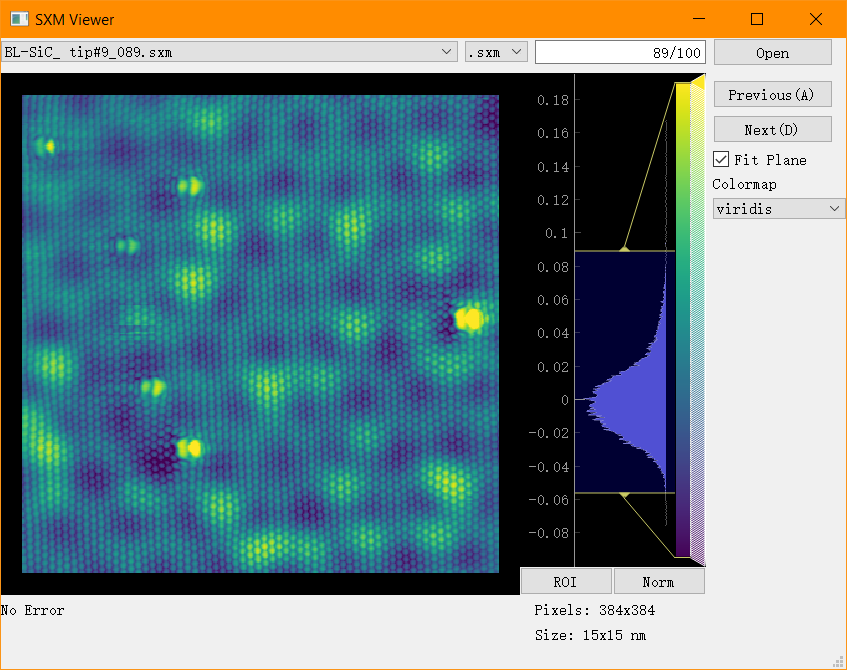
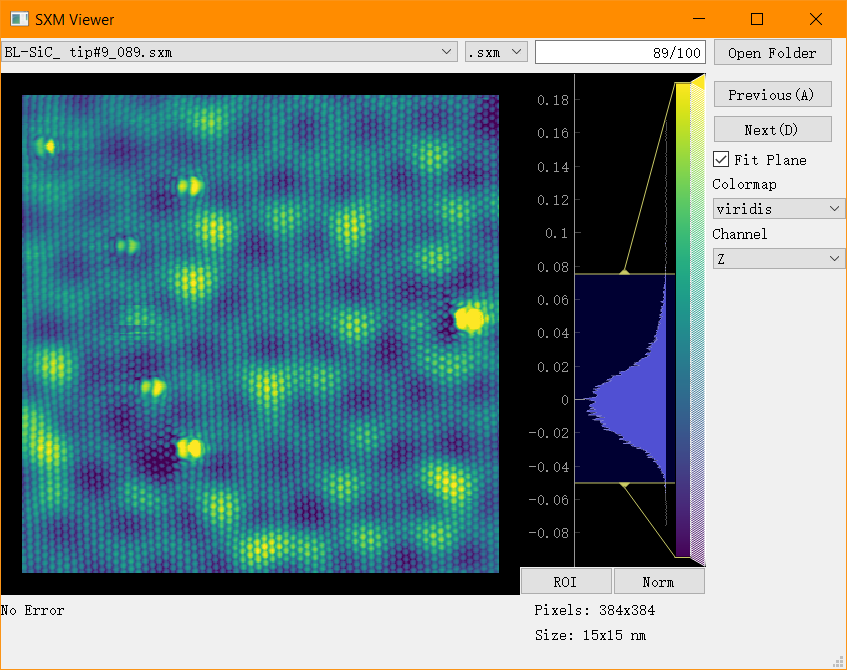
add a functionality to read all the availble channels.

diff --git a/ui.py b/ui.py
@@ -2,7 +2,7 @@
 
 # Form implementation generated from reading ui file 'ui.ui'
 #
-# Created by: PyQt5 UI code generator 5.15.4
+# Created by: PyQt5 UI code generator 5.15.7
 #
 # WARNING: Any manual changes made to this file will be lost when pyuic5 is
 # run again.  Do not edit this file unless you know what you are doing.
@@ -22,8 +22,9 @@ class Ui_MainWindow(object):
         self.gridLayout_2.setObjectName("gridLayout_2")
         self.gridLayout = QtWidgets.QGridLayout()
         self.gridLayout.setObjectName("gridLayout")
-        spacerItem = QtWidgets.QSpacerItem(40, 20, QtWidgets.QSizePolicy.Expanding, QtWidgets.QSizePolicy.Minimum)
-        self.gridLayout.addItem(spacerItem, 11, 0, 1, 1)
+        self.label_size = QtWidgets.QLabel(self.centralwidget)
+        self.label_size.setObjectName("label_size")
+        self.gridLayout.addWidget(self.label_size, 13, 2, 1, 1)
         self.previousButton = QtWidgets.QPushButton(self.centralwidget)
         sizePolicy = QtWidgets.QSizePolicy(QtWidgets.QSizePolicy.Fixed, QtWidgets.QSizePolicy.Fixed)
         sizePolicy.setHorizontalStretch(0)
@@ -33,11 +34,11 @@ class Ui_MainWindow(object):
         self.previousButton.setMinimumSize(QtCore.QSize(120, 20))
         self.previousButton.setObjectName("previousButton")
         self.gridLayout.addWidget(self.previousButton, 3, 3, 1, 1)
+        spacerItem = QtWidgets.QSpacerItem(40, 20, QtWidgets.QSizePolicy.Expanding, QtWidgets.QSizePolicy.Minimum)
+        self.gridLayout.addItem(spacerItem, 13, 0, 1, 1)
         self.comboBox_colormap = QtWidgets.QComboBox(self.centralwidget)
         self.comboBox_colormap.setObjectName("comboBox_colormap")
         self.gridLayout.addWidget(self.comboBox_colormap, 7, 3, 1, 1)
-        spacerItem1 = QtWidgets.QSpacerItem(20, 40, QtWidgets.QSizePolicy.Minimum, QtWidgets.QSizePolicy.Expanding)
-        self.gridLayout.addItem(spacerItem1, 8, 3, 1, 1)
         self.lineEdit_findex = QtWidgets.QLineEdit(self.centralwidget)
         sizePolicy = QtWidgets.QSizePolicy(QtWidgets.QSizePolicy.Minimum, QtWidgets.QSizePolicy.Fixed)
         sizePolicy.setHorizontalStretch(0)
@@ -52,6 +53,9 @@ class Ui_MainWindow(object):
         self.lineEdit_findex.setAlignment(QtCore.Qt.AlignRight|QtCore.Qt.AlignTrailing|QtCore.Qt.AlignVCenter)
         self.lineEdit_findex.setObjectName("lineEdit_findex")
         self.gridLayout.addWidget(self.lineEdit_findex, 0, 2, 1, 1)
+        self.graphicsView = ImageView(self.centralwidget)
+        self.graphicsView.setObjectName("graphicsView")
+        self.gridLayout.addWidget(self.graphicsView, 2, 0, 10, 3)
         self.nextButton = QtWidgets.QPushButton(self.centralwidget)
         self.nextButton.setEnabled(True)
         sizePolicy = QtWidgets.QSizePolicy(QtWidgets.QSizePolicy.Fixed, QtWidgets.QSizePolicy.Fixed)
@@ -65,6 +69,8 @@ class Ui_MainWindow(object):
         self.checkBox_fitPlane = QtWidgets.QCheckBox(self.centralwidget)
         self.checkBox_fitPlane.setObjectName("checkBox_fitPlane")
         self.gridLayout.addWidget(self.checkBox_fitPlane, 5, 3, 1, 1)
+        spacerItem1 = QtWidgets.QSpacerItem(20, 40, QtWidgets.QSizePolicy.Minimum, QtWidgets.QSizePolicy.Expanding)
+        self.gridLayout.addItem(spacerItem1, 10, 3, 1, 1)
         self.comboBox_fname = QtWidgets.QComboBox(self.centralwidget)
         self.comboBox_fname.setObjectName("comboBox_fname")
         self.gridLayout.addWidget(self.comboBox_fname, 0, 0, 1, 1)
@@ -77,24 +83,24 @@ class Ui_MainWindow(object):
         self.openButton.setMinimumSize(QtCore.QSize(120, 20))
         self.openButton.setObjectName("openButton")
         self.gridLayout.addWidget(self.openButton, 0, 3, 1, 1)
+        self.label_pixels = QtWidgets.QLabel(self.centralwidget)
+        self.label_pixels.setObjectName("label_pixels")
+        self.gridLayout.addWidget(self.label_pixels, 12, 2, 1, 1)
         self.label_colormap = QtWidgets.QLabel(self.centralwidget)
         self.label_colormap.setObjectName("label_colormap")
         self.gridLayout.addWidget(self.label_colormap, 6, 3, 1, 1)
-        self.graphicsView = ImageView(self.centralwidget)
-        self.graphicsView.setObjectName("graphicsView")
-        self.gridLayout.addWidget(self.graphicsView, 2, 0, 8, 3)
         self.comboBox_fileType = QtWidgets.QComboBox(self.centralwidget)
         self.comboBox_fileType.setObjectName("comboBox_fileType")
         self.gridLayout.addWidget(self.comboBox_fileType, 0, 1, 1, 1)
         self.label_errMsg = QtWidgets.QLabel(self.centralwidget)
         self.label_errMsg.setObjectName("label_errMsg")
-        self.gridLayout.addWidget(self.label_errMsg, 10, 0, 1, 1)
-        self.label_pixels = QtWidgets.QLabel(self.centralwidget)
-        self.label_pixels.setObjectName("label_pixels")
-        self.gridLayout.addWidget(self.label_pixels, 10, 2, 1, 1)
-        self.label_size = QtWidgets.QLabel(self.centralwidget)
-        self.label_size.setObjectName("label_size")
-        self.gridLayout.addWidget(self.label_size, 11, 2, 1, 1)
+        self.gridLayout.addWidget(self.label_errMsg, 12, 0, 1, 1)
+        self.label_channel = QtWidgets.QLabel(self.centralwidget)
+        self.label_channel.setObjectName("label_channel")
+        self.gridLayout.addWidget(self.label_channel, 8, 3, 1, 1)
+        self.comboBox_channel = QtWidgets.QComboBox(self.centralwidget)
+        self.comboBox_channel.setObjectName("comboBox_channel")
+        self.gridLayout.addWidget(self.comboBox_channel, 9, 3, 1, 1)
         self.gridLayout_2.addLayout(self.gridLayout, 0, 0, 1, 1)
         MainWindow.setCentralWidget(self.centralwidget)
         self.menubar = QtWidgets.QMenuBar(MainWindow)
@@ -111,12 +117,23 @@ class Ui_MainWindow(object):
     def retranslateUi(self, MainWindow):
         _translate = QtCore.QCoreApplication.translate
         MainWindow.setWindowTitle(_translate("MainWindow", "MainWindow"))
+        self.label_size.setText(_translate("MainWindow", "Size:"))
         self.previousButton.setText(_translate("MainWindow", "Previous(A)"))
         self.nextButton.setText(_translate("MainWindow", "Next(D)"))
         self.checkBox_fitPlane.setText(_translate("MainWindow", "Fit Plane"))
-        self.openButton.setText(_translate("MainWindow", "Open"))
+        self.openButton.setText(_translate("MainWindow", "Open Folder"))
+        self.label_pixels.setText(_translate("MainWindow", "Pixels:"))
         self.label_colormap.setText(_translate("MainWindow", "Colormap"))
         self.label_errMsg.setText(_translate("MainWindow", "No Error"))
-        self.label_pixels.setText(_translate("MainWindow", "Pixels:"))
-        self.label_size.setText(_translate("MainWindow", "Size:"))
+        self.label_channel.setText(_translate("MainWindow", "Channel"))
 from pyqtgraph import ImageView
+
+
+if __name__ == "__main__":
+    import sys
+    app = QtWidgets.QApplication(sys.argv)
+    MainWindow = QtWidgets.QMainWindow()
+    ui = Ui_MainWindow()
+    ui.setupUi(MainWindow)
+    MainWindow.show()
+    sys.exit(app.exec_())

diff --git a/app.py b/app.py
@@ -26,6 +26,8 @@ class sxmViewerApp(QtWidgets.QMainWindow):
         self.findex = 0
         self.findex_max = 0
         self.log_moved = []
+        self.all_channels = []
+        self.current_channel = ''
         self.ui = uic.loadUi('ui.ui', self)
         # self.resize(900, 600)
         self.setWindowTitle('SXM Viewer')
@@ -55,6 +57,7 @@ class sxmViewerApp(QtWidgets.QMainWindow):
 
         self.comboBox_fileType.activated[str].connect(self.get_fnames)
         self.comboBox_colormap.activated[str].connect(self.set_colormap)
+        self.comboBox_channel.activated[str].connect(lambda: self.update_image(self.fnames[self.findex]))
         self.comboBox_fname.activated[str].connect(self.comboBox_fname_update)
 
     def openFileNameDialog(self):
@@ -90,6 +93,8 @@ class sxmViewerApp(QtWidgets.QMainWindow):
     def update_image(self, fn):
         if self.comboBox_fileType.currentText() == '.npy':
             data = np.load(fn)
+            self.label_pixels.setText('Pixels: {}x{}'.format(data.shape[0], data.shape[1]))
+            self.label_size.setText('Size: None')
         elif self.comboBox_fileType.currentText() == '.sxm':
             data, pixels, real = self.read_sxm(fn)
             self.label_pixels.setText('Pixels: {}x{}'.format(pixels['x'], pixels['y']))
@@ -97,14 +102,24 @@ class sxmViewerApp(QtWidgets.QMainWindow):
 
         if self.checkBox_fitPlane.isChecked():
             data = self.subtract_2d_plane(data)
+            if isinstance(data, str):
+                self.label_errMsg.setText('Error: Image contains nan values.')
+                return
         data *= 1e9
         self.graphicsView.setImage(data.T)
         self.lineEdit_findex.setText('{}/{}'.format(self.findex+1, self.findex_max))
         self.label_errMsg.setText('No Error')
 
     def read_sxm(self, fn):
+        self.current_channel = str(self.comboBox_channel.currentText())
+        self.comboBox_channel.clear()
         load = sxmReader.NanonisSXM(fn)
-        xx = load.retrieve_channel_data('Z')
+        self.comboBox_channel.addItems(load.channels_name)
+        if self.current_channel == '':
+            self.current_channel = load.channels_name[0]
+        self.comboBox_channel.setCurrentText(self.current_channel)
+        
+        xx = load.retrieve_channel_data(self.current_channel)
         scan_dir = load.header['SCAN_DIR'][0][0]
         pixels = {'x': int(load.header['SCAN_PIXELS'][0][0]),
                   'y': int(load.header['SCAN_PIXELS'][0][1])}
@@ -136,6 +151,8 @@ class sxmViewerApp(QtWidgets.QMainWindow):
         self.graphicsView.setColorMap(cmap)
 
     def subtract_2d_plane(self, img):
+        if np.isnan(img).any():
+            return 'contain nan'
         m = img.shape[0]
         X1, X2 = np.mgrid[:m, :m]
 

diff --git a/README.md b/README.md
@@ -8,7 +8,8 @@ Compare to the native LabView app from Nanonis, this tool is a lot faster and ca
 ### Functionality
 
 - Load and visualize data from `.sxm` and `.npy` file.
-    - So far it only supports the 'Z' channel.
+    - For `.sxm`, it can extract all the available channels in the file.
+    - For `.npy`, the data type shoud be a 2D (rank-2) numpy array.
 - Subtract a 2D fitted plane from the original image.
 - The default setup includes more than 60 colormaps from matplotlib.
 - Adjust color range, export image and raw data by right-clicking on the image.
